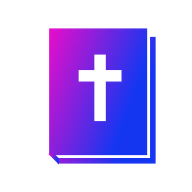
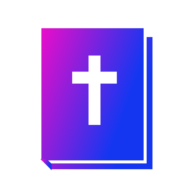
updated images

Changed region(s): [[0.1875, 0.125, 0.8125, 0.9062], [0.375, 0.2812, 0.6562, 0.6562]]

diff --git a/index.html b/index.html
@@ -1,6 +1,6 @@
 ---
 layout: default
-image: logo.png
+image: logo-solid.png
 ---
 <div class="container">
     <div class="row my-2 text-center">

diff --git a/chapter.html b/chapter.html
@@ -1,5 +1,6 @@
 ---
 layout: default
+image: logo-solid.png
 ---
 
 {% include chapter.html %}
